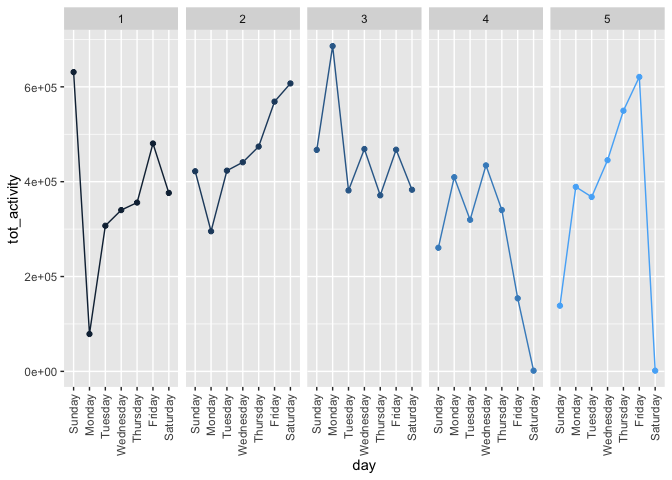
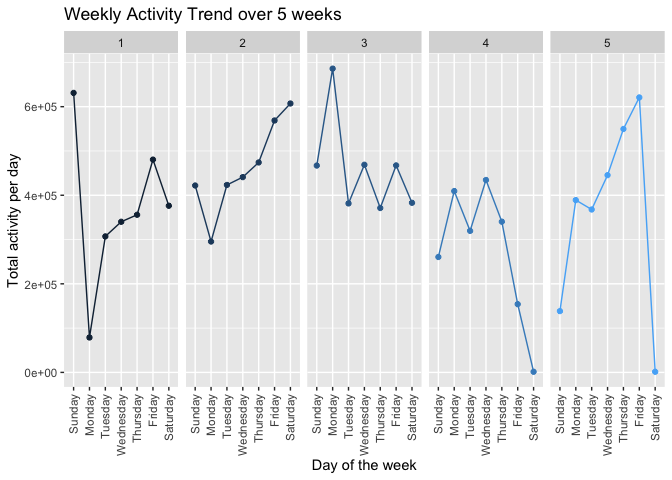
Add plot and conclusion for Question 2

diff --git a/p8105_hw3_yh3554.md b/p8105_hw3_yh3554.md
@@ -267,10 +267,14 @@ table_1
 Create a trend plot to see if there is any pattern.
 
 ``` r
-p2_df2$day <- factor(p2_df2$day, levels = c("Sunday", "Monday", "Tuesday", "Wednesday", "Thursday", "Friday", "Saturday")) 
-
-p2_df2 %>% ggplot(aes(x = day, y = tot_activity, color = week, group = week)) +
+p2_df2 %>%
+  mutate(day = factor(day, levels = c("Sunday", "Monday", "Tuesday", "Wednesday", "Thursday", "Friday", "Saturday"))) %>%
+  ggplot(aes(x = day, y = tot_activity, color = week, group = week)) +
   geom_point() + geom_line() + facet_grid(~week) +
+  labs(
+  title = "Weekly Activity Trend over 5 weeks",
+  x = "Day of the week",
+  y = "Total activity per day") +
   theme(axis.text.x = element_text(angle = 90, vjust = 0.5, hjust = 1), 
         legend.position = "none")
 ```
@@ -280,3 +284,34 @@ p2_df2 %>% ggplot(aes(x = day, y = tot_activity, color = week, group = week)) +
 Based on the trend plot, we can see the patient reached to peak on
 weekend (either Saturday or Sunday) in the first two weeks, and the
 patient was more active on weekday in the last three weeks.
+
+#### Single-panel plot of 24-hour activity for each day of the week.
+
+``` r
+p2_df1 %>% 
+  mutate(hour = floor((n_min - 1)/60) + 1, times = 35) %>%
+  group_by(day_id, day, hour) %>%
+  summarise(hr_activity = sum(n_activity)) %>%
+  mutate(day = factor(day, levels = c("Sunday", "Monday", "Tuesday", "Wednesday", "Thursday", "Friday", "Saturday"))) %>%
+  ggplot(aes(x = hour, y = hr_activity, color = day, group = day_id)) +
+  geom_line(colour = grey(0.8)) + geom_smooth(se = FALSE) +
+  labs(
+    title = "24-hour Activity over 5 weeks",
+    x = "Hour of the day",
+    y = "Total activity per hour") + 
+  theme(axis.text.x = element_text(vjust = 0.5, hjust = 1)) +
+  viridis::scale_color_viridis(
+    name = "day", discrete = TRUE)
+```
+
+    ## `summarise()` has grouped output by 'day_id', 'day'. You can override using the
+    ## `.groups` argument.
+    ## `geom_smooth()` using method = 'loess' and formula 'y ~ x'
+
+![](p8105_hw3_yh3554_files/figure-gfm/unnamed-chunk-11-1.png)<!-- -->
+
+The single-panel plot shows the mean activity over a day has an
+increasing pattern as time increases. The patient are more active in the
+morning time and night time. On average, the most active time is around
+8 pm to 9 pm. There is a zero activity on one of the Saturday and low
+activity on one of the Sunday during the 5 week observation period.
